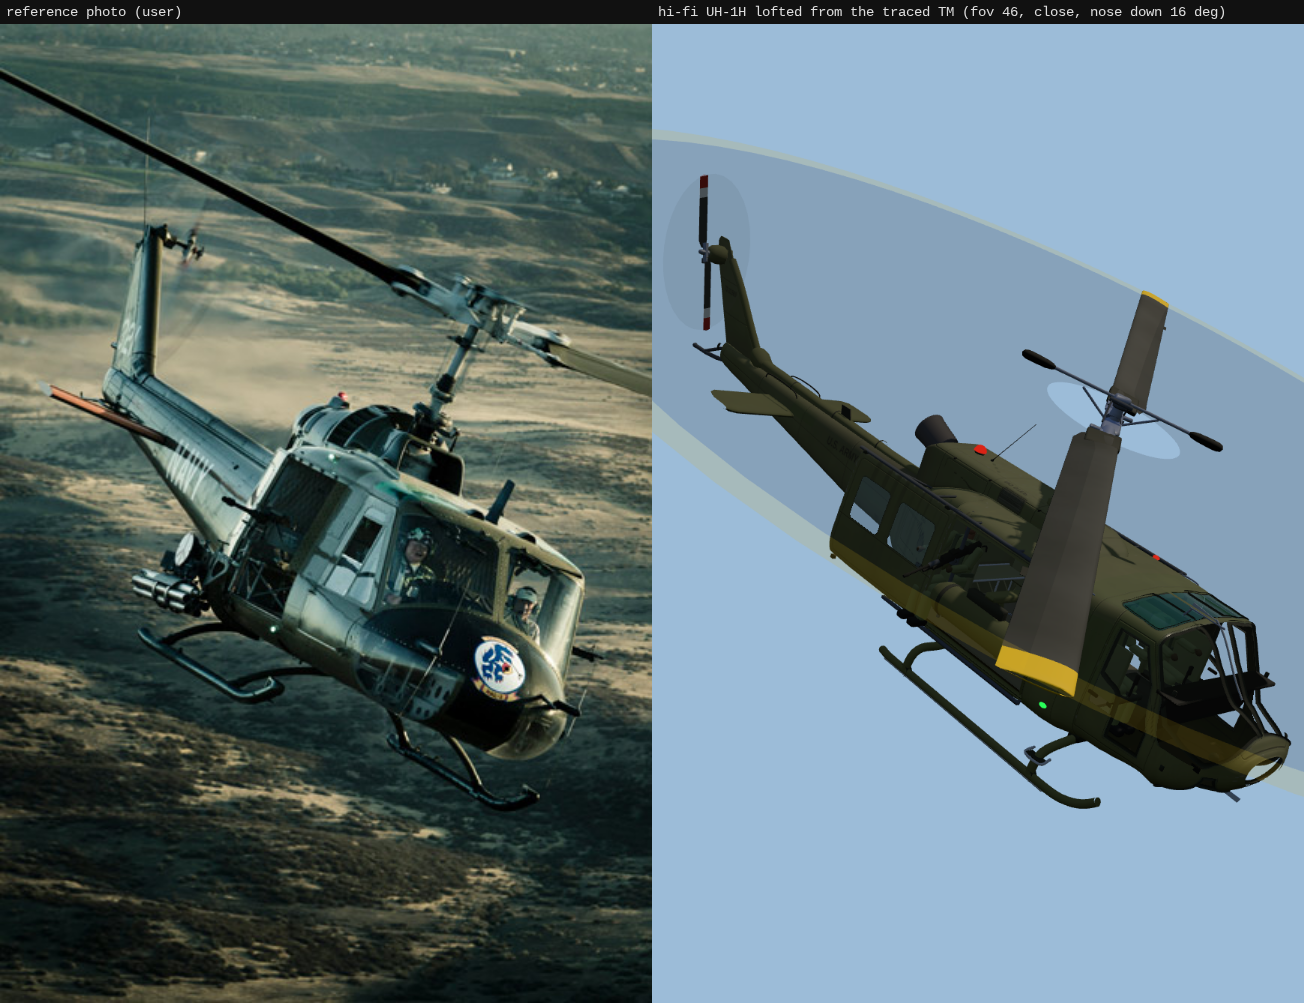
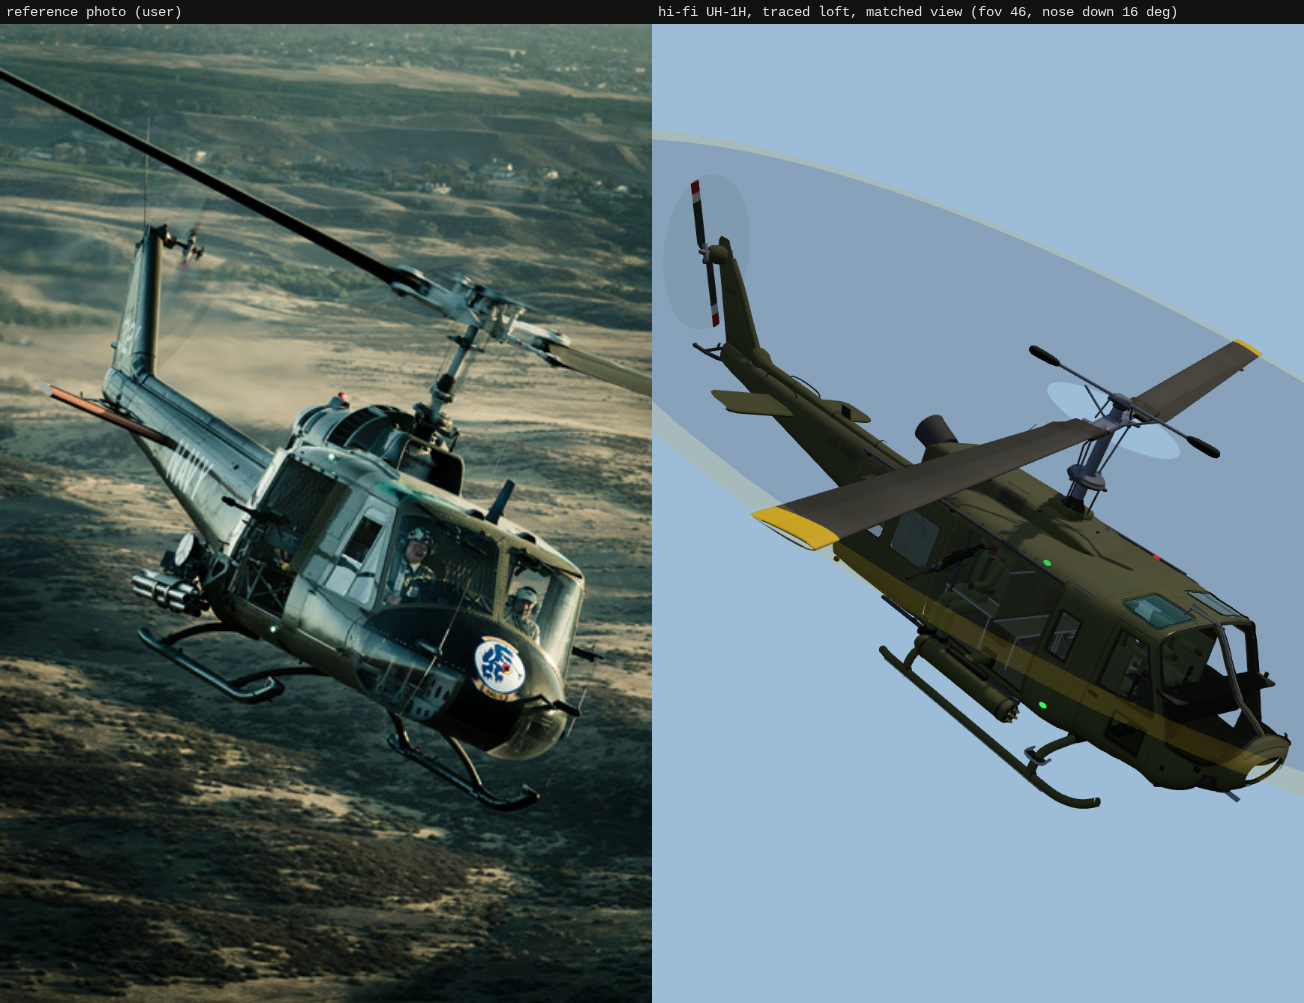
look-huey: Fresnel glass (reads as glass without an env map), rotor phase control in the preview, proportions.png re-rendered

diff --git a/game/js/hueyhifi.js b/game/js/hueyhifi.js
@@ -276,6 +276,20 @@ function buildTextures(S, D, xr) {
 }
 
 // ------------------------------------------------------------------------------------------- materials + LOD
+// glass that reads as glass from outside: a Fresnel term (Schlick, n = 1.5) raises the reflectance and opacity at grazing
+// angles and mixes in a sky colour, so panes show without an environment map (the game's env adds to it)
+function fresnel(m, sky = [0.6, 0.68, 0.74]) {
+  const prev = m.onBeforeCompile, key = m.customProgramCacheKey.bind(m);
+  m.onBeforeCompile = function (sh, r) {
+    if (prev) prev.call(this, sh, r);
+    sh.fragmentShader = sh.fragmentShader.replace('#include <dithering_fragment>', `#include <dithering_fragment>
+      { float hyF = 0.04 + 0.96 * pow(1.0 - clamp(abs(dot(normalize(vViewPosition), normal)), 0.0, 1.0), 5.0);
+        gl_FragColor.rgb = mix(gl_FragColor.rgb, vec3(${sky.map(v => v.toFixed(3)).join(', ')}), clamp(hyF * 1.4, 0.0, 0.75));
+        gl_FragColor.a = mix(gl_FragColor.a, 0.92, clamp(hyF * 1.6, 0.0, 1.0)); }`);
+  };
+  m.customProgramCacheKey = () => key() + '|hyfres';
+  return m;
+}
 function lodify(m, U) {
   const prev = m.onBeforeCompile, key = m.customProgramCacheKey.bind(m);
   m.onBeforeCompile = function (sh, r) {
@@ -317,11 +331,11 @@ export function buildHueyHiFi(HUEY, { xr = false } = {}) {
     red: PM('red', lod, role(0xa81c14, 'paint')), white: PM('white', lod, role(0xe2e2dc, 'paint')),
   });
   const N = mats('n'), Mm = mats('m'), Fm = mats('f'), MF = mats('mf'), NM = mats('nm');
-  const glassN = PM('glass', 'n', () => rkGlass(() => null, { color: 0x8fb5a2, opacity: 0.3, alphaMap: T.glassMask.aux, alphaTest: 0.5, side: THREE.DoubleSide }));
-  const roofGlassN = PM('roofglass', 'n', () => rkGlass(() => null, { color: 0x2f7a46, opacity: 0.62, alphaMap: T.glassMask.aux, alphaTest: 0.5, side: THREE.DoubleSide }));
+  const glassN = PM('glass', 'n', () => fresnel(rkGlass(() => null, { color: 0x7a968c, opacity: 0.38, alphaMap: T.glassMask.aux, alphaTest: 0.5, side: THREE.DoubleSide })));
+  const roofGlassN = PM('roofglass', 'n', () => fresnel(rkGlass(() => null, { color: 0x2f7a46, opacity: 0.66, alphaMap: T.glassMask.aux, alphaTest: 0.5, side: THREE.DoubleSide }), [0.3, 0.5, 0.38]));
   const doorSkinN = PM('door', 'n', role(0xffffff, 'flat', { map: T.door.map, bumpMap: T.door.aux, bumpScale: 1.2, roughnessMap: T.door.aux, alphaTest: 0.5, side: THREE.DoubleSide }, army));
   const doorSkinM = PM('door', 'm', role(0xffffff, 'flat', { map: T.door.map, roughnessMap: T.door.aux }, army));
-  const doorGlassN = PM('doorglass', 'n', () => rkGlass(() => null, { color: 0x8fb5a2, opacity: 0.32 }));
+  const doorGlassN = PM('doorglass', 'n', () => fresnel(rkGlass(() => null, { color: 0x7a968c, opacity: 0.38 })));
   const noseLiningN = PM('noseLining', 'n', role(0x5a5e50, 'flat', { map: T.skin.map, alphaTest: 0.5, side: THREE.BackSide }, { ...DETAIL.army, dust: 0.1, wear: 0, streak: 0 }));
   const liningN = PM('lining', 'n', role(0x50563f, 'flat', { side: THREE.BackSide }, { ...DETAIL.army, dust: 0.15, wear: 0, streak: 0 }));
   const floorN = PM('floor', 'n', role(0x3a3d33, 'rubber', {}, { ...DETAIL.army, dust: 0.3, wear: 0 }));

diff --git a/game/dev/huey-preview.js b/game/dev/huey-preview.js
@@ -37,6 +37,7 @@ if (Q.get('ck') === '1') { cockpit = buildHueyCockpit(); huey.group.add(cockpit.
 
 const S = { nr: 1, run: true, n1: 0.95, tx: 0, ty: 0, coll: 0.3, ped: 0, cone: 0.05, rockets: 16, light: false, firing: false, aim: null, cargoDoor: 1 };
 if (Q.get('s')) Object.assign(S, JSON.parse(Q.get('s')));
+if (Q.get('psi')) huey.animate({ ...S, nr: 1 }, Number(Q.get('psi')) / HUEY.OMEGA, 0, false);   // rotor phase (rad), e.g. to keep a blade off the cabin in a still
 const cam = { yaw: 2.5, pitch: 0.15, dist: 20, t: new THREE.Vector3(0, 0.3, 1.0) };
 if (Q.get('cam')) { const [y, p, d, x, yy, z] = Q.get('cam').split(',').map(Number); Object.assign(cam, { yaw: y, pitch: p, dist: d }); cam.t.set(x || 0, yy || 0, z || 0); }
 const ck = { yaw: Number(Q.get('ckyaw') || 0), pitch: Number(Q.get('ckpitch') || HUEY_EYE_PITCH) };
